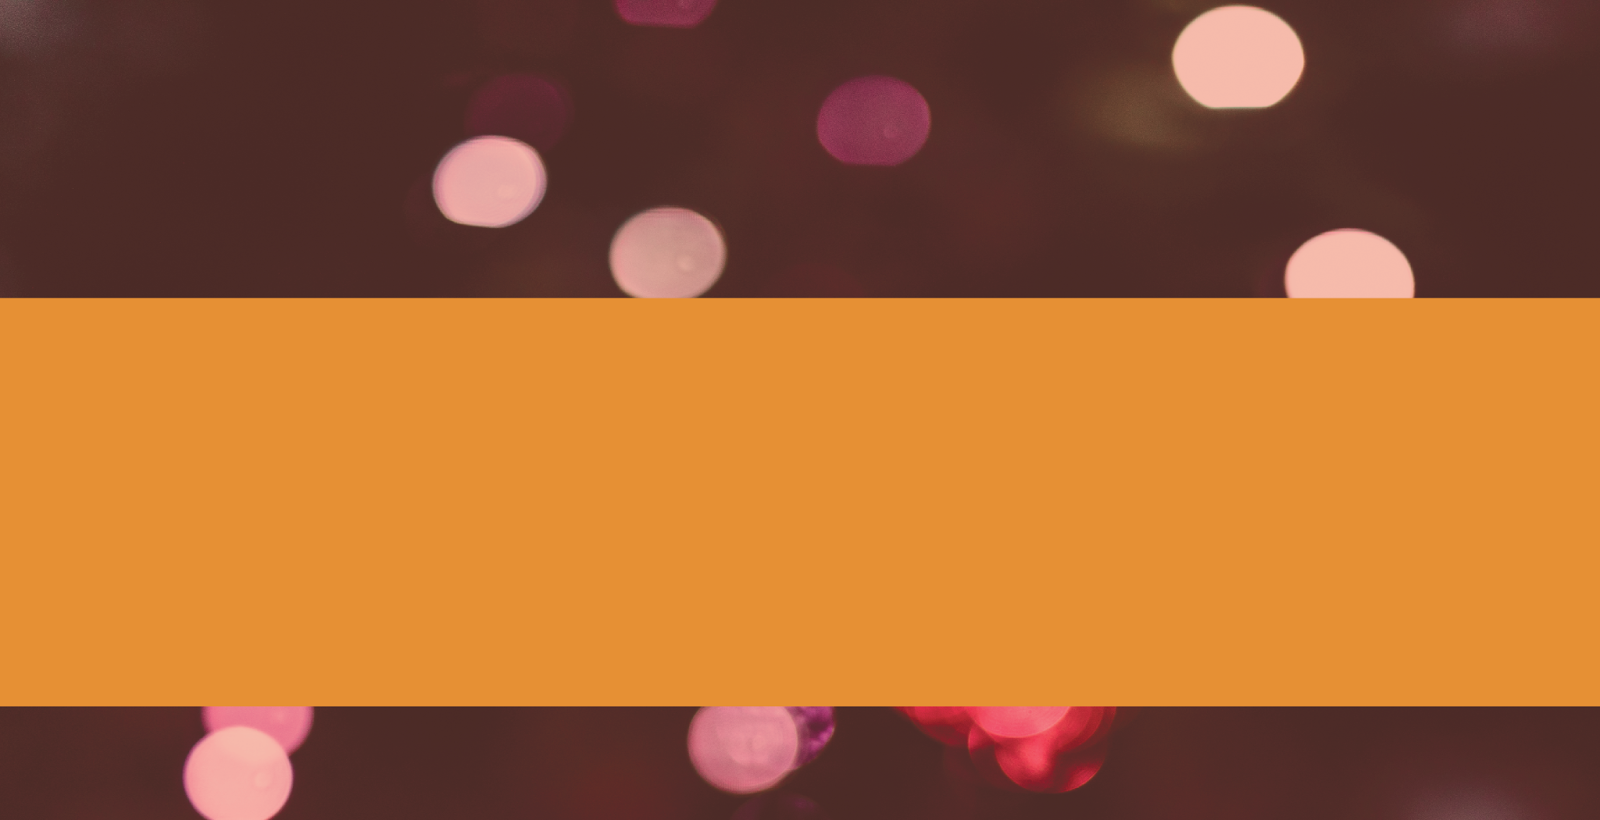
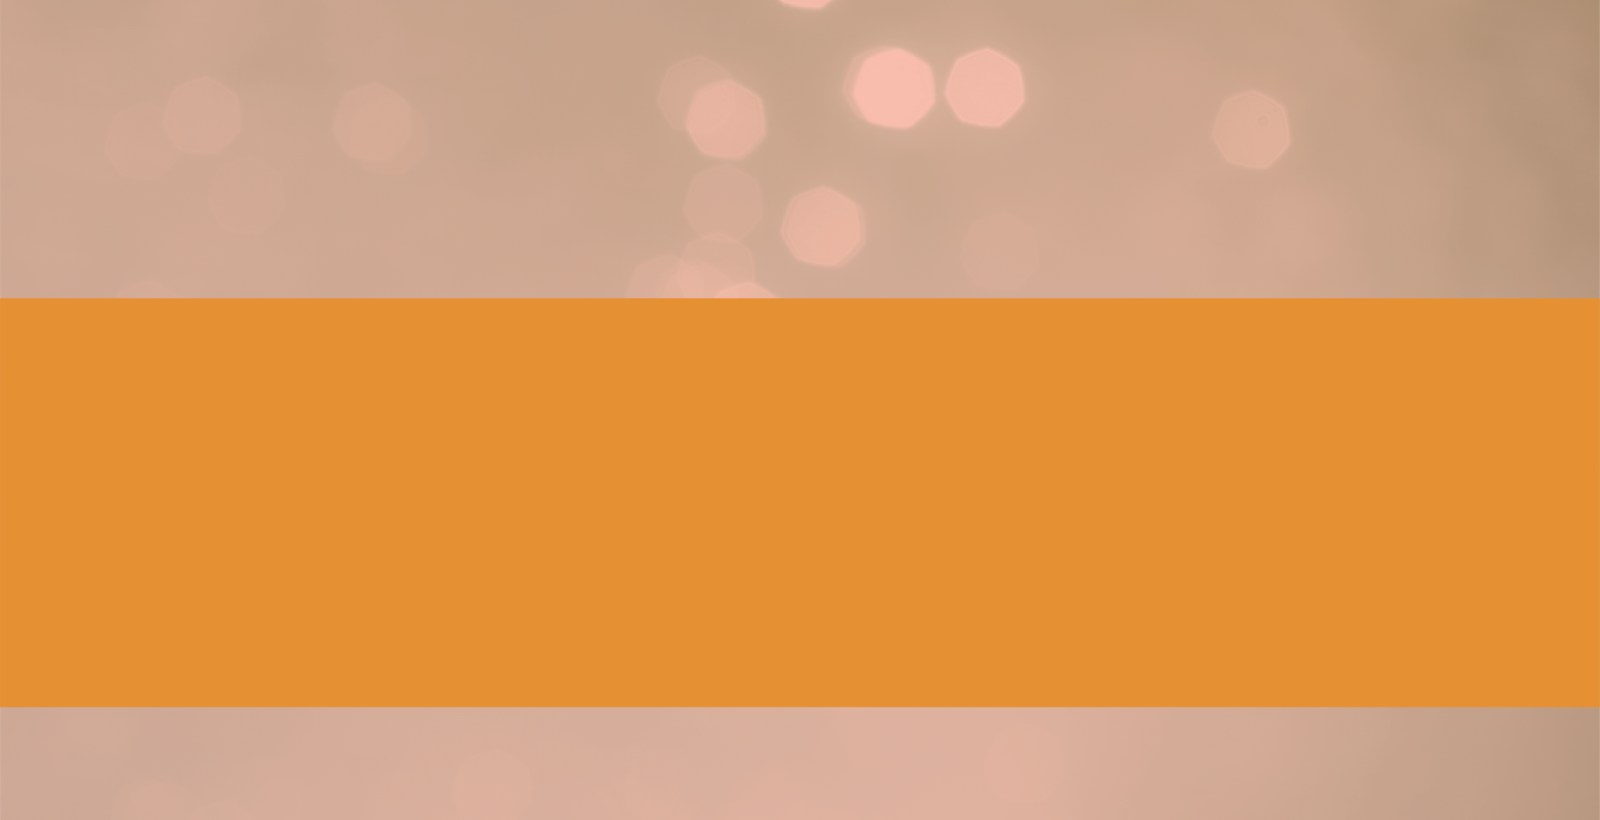
maybe last

diff --git a/src/components/WhyComp.jsx b/src/components/WhyComp.jsx
@@ -16,8 +16,8 @@ const WhyComp = () => {
     triggerOnce: true
   })
   return (
-    <div className='flex flex-col justify-center items-center p-4 mt-4'>
-      <div ref={ref} className={inView ? "text-center mb-8 relative aniD1" : "opacity-0"}>
+    <div ref={ref} className='flex flex-col justify-center items-center p-4 mt-4'>
+      <div   className={inView ? "text-center mb-8 relative aniD1" : "opacity-0"}>
         <p className='md:text-2xl text-xl font-serif'>Why choose</p>
         <h1 className='md:text-[2.5rem] text-3xl font-bold font-serif'>The Gravity Academy?</h1>
         <img src={arrow} alt="arrow" className='absolute top-0 md:-left-[50%] left-0 rotate-45 scale-150 hidden sm:block'/>        
@@ -26,22 +26,22 @@ const WhyComp = () => {
       <div className='pb-12 flex flex-col flex-wrap md:flex-row justify-around mx-0 relative overflow-hidden'>
         <img src={circle1} alt="circle1" className='absolute top-[75%] left-[20%]' />
         <img src={circle2} alt="circle2" className='absolute top-[70%] left-[75%]' />
-        <div ref={ref} className={inView ? "bg-white rounded-md shadow-lg z-10 p-8 w-80 flex flex-col gap-2 m-4  aniBox1" : "opacity-0"}>
+        <div   className={inView ? "bg-white rounded-md shadow-lg z-10 p-8 w-80 flex flex-col gap-2 m-4  aniBox1" : "opacity-0"}>
           <div><img src={onetoone} alt="one to one" /></div>
           <h2 className='font-bold text-xl'>One to One Doubt Clearance</h2>
           <p>Individula Doubt CLearing Sessions will help students clear their concepts and master them.</p>
         </div>
-        <div ref={ref} className={inView ? "bg-white rounded-md shadow-lg z-10 p-8 w-80 flex flex-col gap-2 m-4 delay-800 aniBox2" : "opacity-0"}>
+        <div   className={inView ? "bg-white rounded-md shadow-lg z-10 p-8 w-80 flex flex-col gap-2 m-4 delay-800 aniBox2" : "opacity-0"}>
           <div><img src={test} alt="test" /></div>
           <h2 className='font-bold text-xl'>Online Test Series Portal</h2>
           <p>online test series For JEE/NEET/AIPMT is available with more than 1200 test papers to solve.</p>
         </div> 
-        <div ref={ref} className={inView ? "bg-white rounded-md shadow-lg z-10 p-8 w-80 flex flex-col gap-2 m-4 delay-400 aniBox3" : "opacity-0"}>
+        <div   className={inView ? "bg-white rounded-md shadow-lg z-10 p-8 w-80 flex flex-col gap-2 m-4 delay-400 aniBox3" : "opacity-0"}>
           <div><img src={teacher} alt="whiteboard" /></div>
           <h2 className='font-bold text-xl'>Experienced Faculty</h2>
           <p>Students will be taught by experienced teachers who have benn in this field for quite some time.</p>
         </div>
-        <div ref={ref} className={inView ? "bg-white rounded-md shadow-lg z-10 p-8 w-80 flex flex-col gap-2 m-4 delay-600 aniBox4" : "opacity-0"}>
+        <div   className={inView ? "bg-white rounded-md shadow-lg z-10 p-8 w-80 flex flex-col gap-2 m-4 delay-600 aniBox4" : "opacity-0"}>
           <div><img src={monitor} alt="price" /></div>
           <h2 className='font-bold text-xl'>Student Monitoring</h2>
           <p>Biometric attendance, CCTV Classroom Surveillance, SMS Alerts, Emails Notifications</p>

diff --git a/src/components/Courses.jsx b/src/components/Courses.jsx
@@ -14,27 +14,27 @@ const Courses = () => {
     triggerOnce: true
   })
   return (
-    <div className='text-center lg:px-12 mb-10 relative'>
+    <div ref={ref} className='text-center lg:px-12 mb-10 relative'>
       <img src={circle3} alt="circle3" className='absolute left-[37%] top-[50%] -z-10' />
-      <h1 ref={ref} className={inView ? "font-bold md:text-[2.5rem] text-3xl font-serif mb-8 ani" : "opacity-0"}>Courses Taught</h1>
+      <h1   className={inView ? "font-bold md:text-[2.5rem] text-3xl font-serif mb-8 ani" : "opacity-0"}>Courses Taught</h1>
       <div className="flex flex-wrap gap-12 justify-center items-center md:items-end overflow-hidden">
-        <div ref={ref} className={inView ? "p-4 px-16 bg-white rounded-md shadow-lg grid place-items-center aniBox1" : "opacity-0"}>
+        <div   className={inView ? "p-4 px-16 bg-white rounded-md shadow-lg grid place-items-center aniBox1" : "opacity-0"}>
           <img src={ntse} alt="" className='' />
           <h2 className='font-bold font-sans text-2xl'>NTSE</h2>
         </div>
-        <div ref={ref} className={inView ? "p-4 px-16 bg-white rounded-md shadow-lg grid place-items-center aniBox2" : "opacity-0"}>
+        <div   className={inView ? "p-4 px-16 bg-white rounded-md shadow-lg grid place-items-center aniBox2" : "opacity-0"}>
           <img src={iit} alt="" className='' />
           <h2 className='font-bold font-sans text-2xl'>IIT-JEE</h2>
         </div>
-        <div ref={ref} className={inView ? "p-4 px-16 bg-white rounded-md shadow-lg grid place-items-center aniBox3" : "opacity-0"}>
+        <div   className={inView ? "p-4 px-16 bg-white rounded-md shadow-lg grid place-items-center aniBox3" : "opacity-0"}>
           <img src={neet} alt="" className='' />
           <h2 className='font-bold font-sans text-2xl'>NEET</h2>
         </div>
-        <div ref={ref} className={inView ? "p-4 px-16 bg-white rounded-md shadow-lg grid place-items-center aniBox4" : "opacity-0"}>
+        <div   className={inView ? "p-4 px-16 bg-white rounded-md shadow-lg grid place-items-center aniBox4" : "opacity-0"}>
           <img src={nda} alt="" className='' />
           <h2 className='font-bold font-sans text-2xl'>NDA</h2>
         </div>
-        <div ref={ref} className={inView ? "p-4 px-16 bg-white rounded-md shadow-lg grid place-items-center aniBox6" : "opacity-0"}>
+        <div   className={inView ? "p-4 px-16 bg-white rounded-md shadow-lg grid place-items-center aniBox6" : "opacity-0"}>
           <img src={mhtcet} alt="" className='' />
           <h2 className='font-bold font-sans text-2xl'>MHTCET</h2>
         </div>

diff --git a/src/components/AboutDoD.jsx b/src/components/AboutDoD.jsx
@@ -38,14 +38,14 @@ const AboutDoD = () => {
 
 
         <div className='grid place-items-center order-3'>
-          <div ref={ref} className={inView ? "rounded-full shadow-lg relative h-[300px] w-[300px] overflow-hidden lg:m-0 my-8 mx-auto aniBox7" : "opacity-0"}>
+          <div className={inView ? "rounded-full shadow-lg relative h-[300px] w-[300px] overflow-hidden lg:m-0 my-8 mx-auto aniBox7" : "opacity-0"}>
             <img src={MDirector} alt="Director" className='h-[450px] w-[350px] hover:scale-105 hover:cursor-pointer' />
             {/* <div className='absolute bottom-10 w-full text-center bg-black opacity-60'>
             <div className='text-3xl text-white'>Mr. Akhilesh Jadhav</div>
             <div className='text-white'>Managing Director</div>
           </div> */}
           </div>
-          <div ref={ref} className={inView ? 'text-center ani' : 'opacity-0'}>
+          <div className={inView ? 'text-center ani' : 'opacity-0'}>
             <div className='text-3xl'>Mr. Akhilesh Jadhav</div>
             <div className=''>Managing Director</div>
           </div>

diff --git a/src/components/AboutMIsVis.jsx b/src/components/AboutMIsVis.jsx
@@ -11,9 +11,8 @@ const AboutMIsVis = () => {
     triggerOnce: true
   })
   return (
-    <div className='flex flex-col p-8 lg:px-40 justify-center'>
-      
-      <div ref={ref} className="flex flex-col gap-6 sm:flex-row items-center justify-between">
+    <div ref={ref} className='flex flex-col p-8 lg:px-40 justify-center'>
+      <div className="flex flex-col gap-6 sm:flex-row items-center justify-between">
         <div className={inView ? 'relative grid place-items-center aniBox1' : 'opacity-0'}>
           <img src={vision} alt="vision" className='sm:w-[80%]' />
         </div>
@@ -24,7 +23,7 @@ const AboutMIsVis = () => {
         </div>
       </div>
 
-      <div ref={ref} className="flex flex-col sm:flex-row-reverse gap-6 items-center justify-between">
+      <div className="flex flex-col sm:flex-row-reverse gap-6 items-center justify-between">
         <div className={inView ? 'relative grid place-items-center aniBox7' : 'opacity-0'}>
           <img src={mission} alt="vision" className='sm:w-[70%]' />
         </div>

diff --git a/src/components/AboutHero.jsx b/src/components/AboutHero.jsx
@@ -11,8 +11,8 @@ const AboutHero = () => {
     triggerOnce: true
   })
   return (
-    <div className="p-4 flex lg:gap-4 items-center lg:flex-row flex-col">
-      <div ref={ref} className="content lg:w-2/3 md:p-8 p-4 font-serif relative">
+    <div ref={ref} className="p-4 flex lg:gap-4 items-center lg:flex-row flex-col">
+      <div className="content lg:w-2/3 md:p-8 p-4 font-serif relative">
         <img src={arrow} alt="arrow" className={inView ? 'absolute top-36 rotate-45 ani' : 'opacity-0'} />
         <div className={inView ? "font-bold text-2xl uppercase text-amber-400 font-sans aniD2" : "opacity-0"}>About Us</div>
         <p className={inView ? "aniD1" : "opacity-0"}><span className='font-bold font-serif text-xl ani'>The Gravity Academy</span> is an educational institute thar offers very uniquely designed courses for various Engineering and medical Entrance Exams.</p>

diff --git a/src/index.css b/src/index.css
@@ -99,7 +99,7 @@
 }
 
 .heroBg {
-  background: url("./assets/bgs/newhero.jpg") no-repeat;
+  background: url("./assets/bgs/herobg.png") no-repeat;
   background-attachment: fixed;
   background-position: center;
   background-size: cover;
@@ -343,13 +343,13 @@
     position: fixed;
     z-index: 2;
     background-color: #e41c24;
-    top: 10.5vh;
+    top: 10vh;
     right: -100%;
     color: white;
     display: flex;
     flex-direction: column;
     gap: 1rem;
-    height: 89.5vh;
+    height: 90vh;
     width: 100%;
     text-align: center;
     animation: slideLeft 1s ease;
